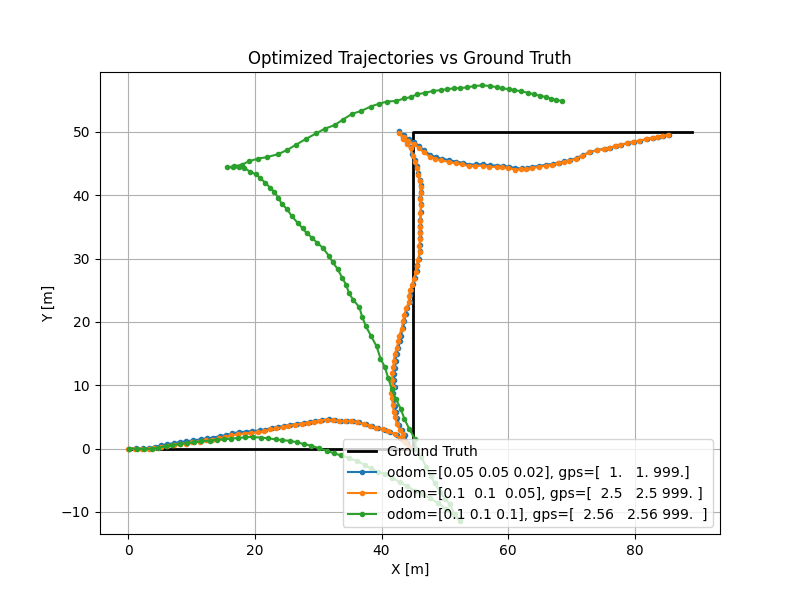
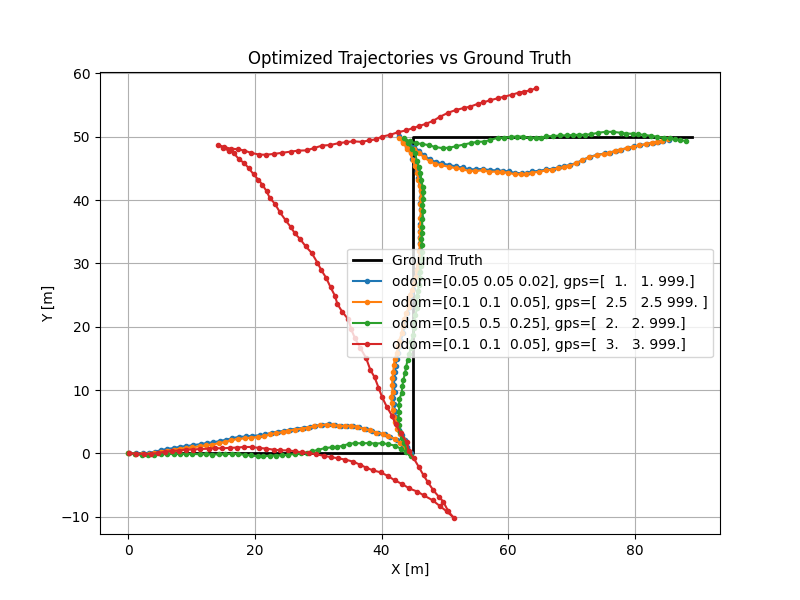
lm vs gn

diff --git a/fg.py b/fg.py
@@ -9,7 +9,7 @@ def build_and_solve_pose_2d_dataset(cov_params, dataset_path="synthetic_pose_2d_
       - odom_sigma: [σx, σy, σθ]
       - gps_sigma: [σx, σy]
     """
-    data = np.load(dataset_path, allow_pickle=True)
+    data = np.load(f"data/{dataset_path}", allow_pickle=True)
     gt_poses = data["gt_poses"]
     odom_meas = data["odom_meas"]
     gps_meas = data["gps_meas"]
@@ -21,11 +21,9 @@ def build_and_solve_pose_2d_dataset(cov_params, dataset_path="synthetic_pose_2d_
     odom_model  = gtsam.noiseModel.Diagonal.Sigmas(odom_sigma)
     gps_model   = gtsam.noiseModel.Diagonal.Sigmas(gps_sigma)
 
-    # Factor graph + initial values
     graph = gtsam.NonlinearFactorGraph()
     initial = gtsam.Values()
 
-    # Add prior on first pose
     graph.add(gtsam.PriorFactorPose2(0, gtsam.Pose2(*gt_poses[0]), prior_model))
     initial.insert(0, gtsam.Pose2(0.0, 0.0, 0.0))  
 
@@ -42,11 +40,12 @@ def build_and_solve_pose_2d_dataset(cov_params, dataset_path="synthetic_pose_2d_
     for (i, gx, gy) in gps_meas:
         graph.add(gtsam.PriorFactorPose2(int(i), gtsam.Pose2(gx, gy, 0.0), gps_model))
 
-    # Optimize with Gauss-Newton
     optimizer = gtsam.GaussNewtonOptimizer(graph, initial)
     result = optimizer.optimize()
+    # params = gtsam.LevenbergMarquardtParams()
+    # optimizer = gtsam.LevenbergMarquardtOptimizer(graph, initial, params)
+    # result = optimizer.optimize()
 
-    # Collect trajectory
     traj = np.array([[result.atPose2(i).x(), result.atPose2(i).y(), result.atPose2(i).theta()] for i in range(len(gt_poses))])
 
     return traj, gt_poses
@@ -55,9 +54,9 @@ def build_and_solve_pose_2d_dataset(cov_params, dataset_path="synthetic_pose_2d_
 if __name__ == "__main__":
     param_sets = [
         ([0.05, 0.05, 0.02], [1, 1, 999.0]),   
-        ([0.5, 0.5, 0.2], [2.0, 2.0, 999.0]),      
+        ([0.5, 0.5, 0.25], [2.0, 2.0, 999.0]),      
         ([0.1, 0.1, 0.05], [2.5, 2.5, 999.0]),
-        ([0.1, 0.1, 0.1], [2.56, 2.56, 999.0]),
+        ([0.1, 0.1, 0.05], [3, 3, 999.0]),
     ]
 
     for idx, params in enumerate(param_sets):

diff --git a/visualize_pose2d_traj.py b/visualize_pose2d_traj.py
@@ -4,13 +4,11 @@ import matplotlib.pyplot as plt
 def plot_pose2d_trajectories(file_list):
     plt.figure(figsize=(8, 6))
 
-    # Load ground truth once (from first file)
     gt_data = np.load(f"output/{file_list[0]}", allow_pickle=True)
     gt = gt_data["gt"]
 
     plt.plot(gt[:,0], gt[:,1], "k-", label="Ground Truth", linewidth=2)
 
-    # Plot each optimized trajectory
     for f in file_list:
         data = np.load(f"output/{f}", allow_pickle=True)
         traj = data["traj"]
@@ -30,10 +28,10 @@ def plot_pose2d_trajectories(file_list):
 
 
 if __name__ == "__main__":
-    # List the trajectory files you saved earlier
     files = [
         "optimized_traj_0.npz",
         "optimized_traj_2.npz",
+        "optimized_traj_1.npz",
         "optimized_traj_3.npz"]
 
     plot_pose2d_trajectories(files)
